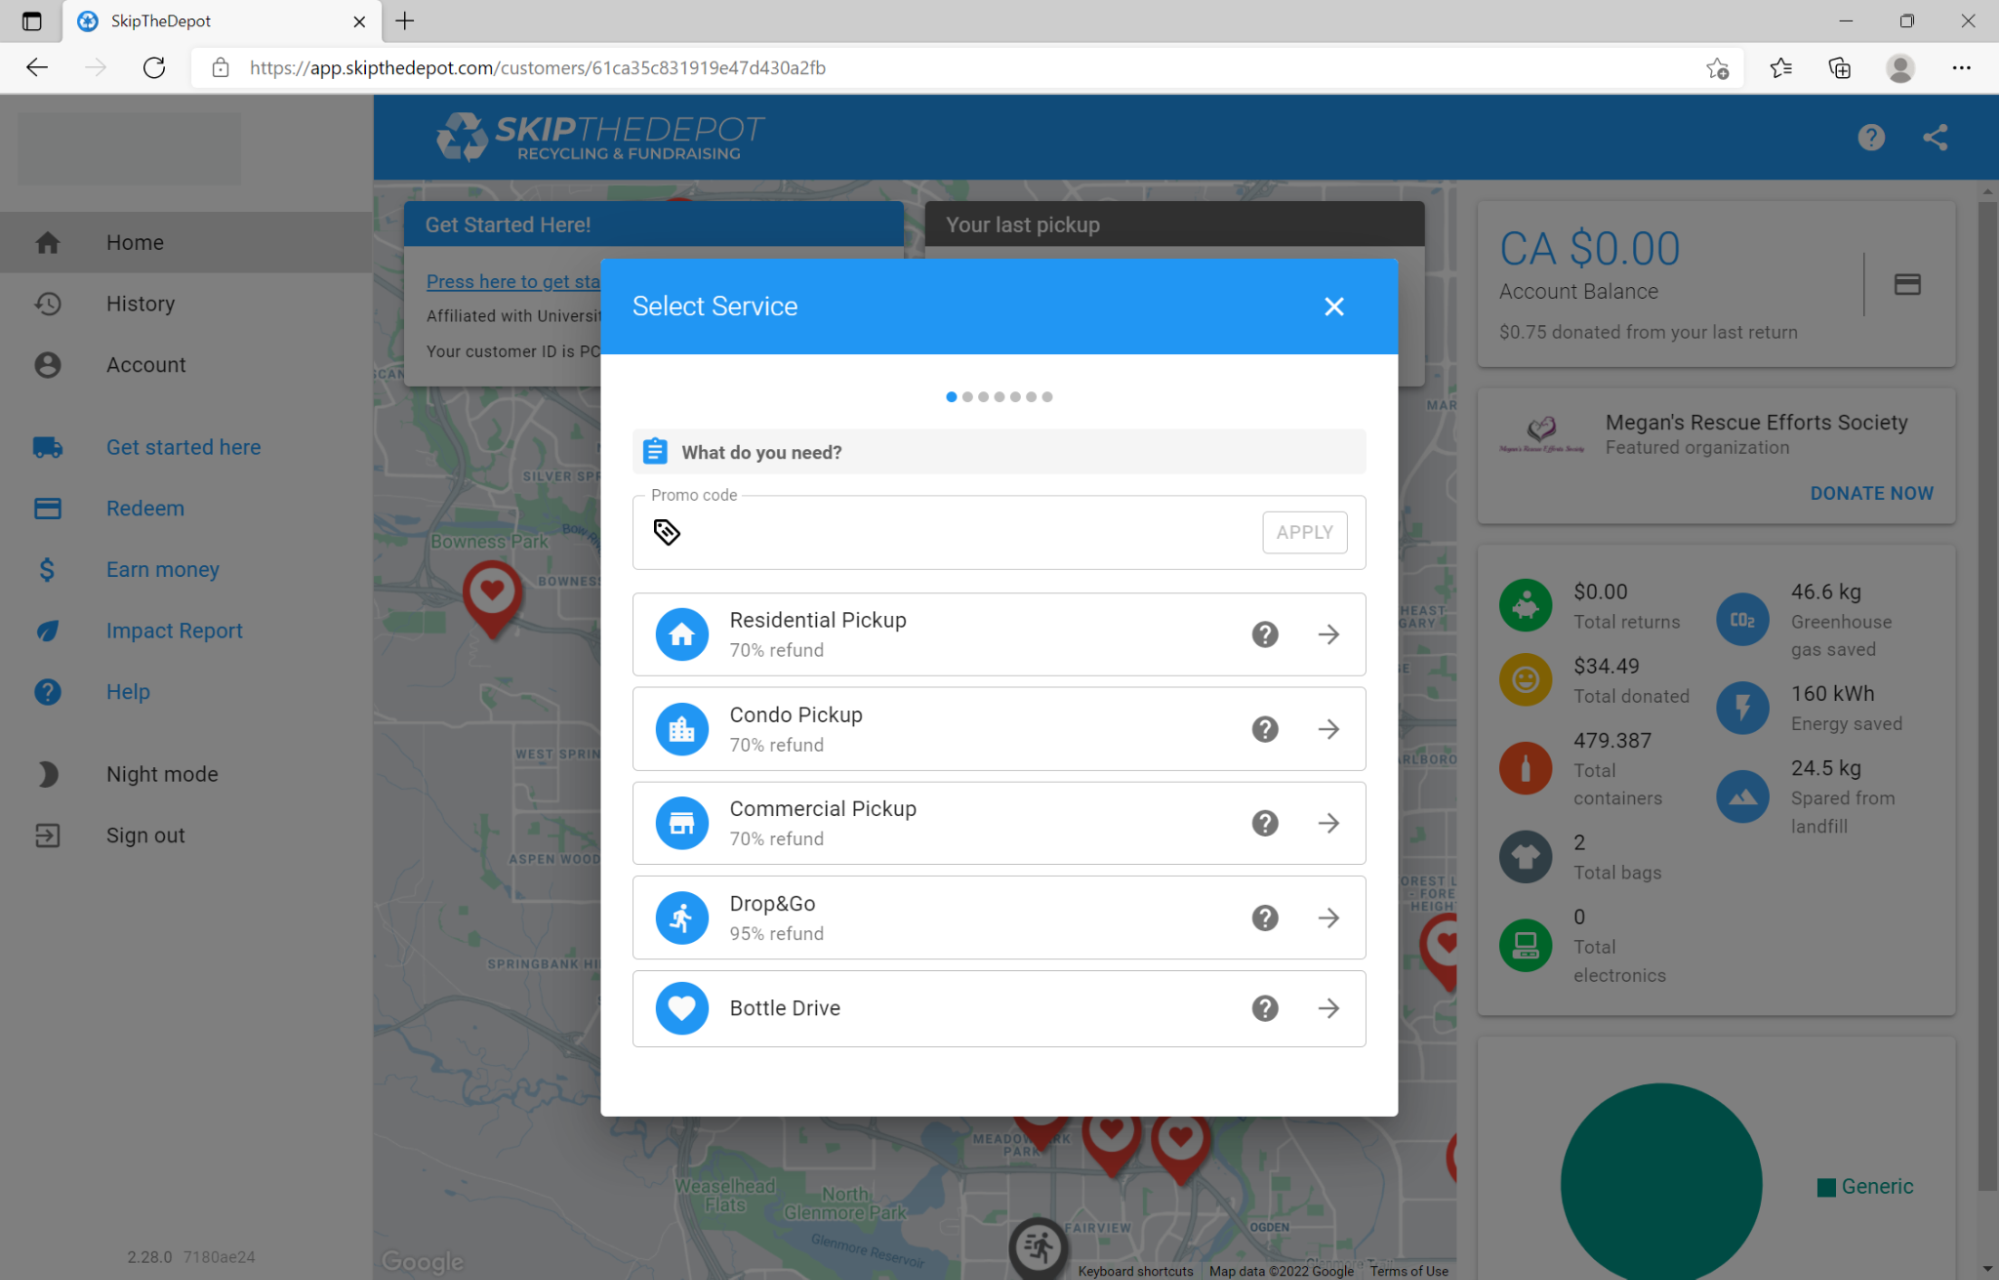
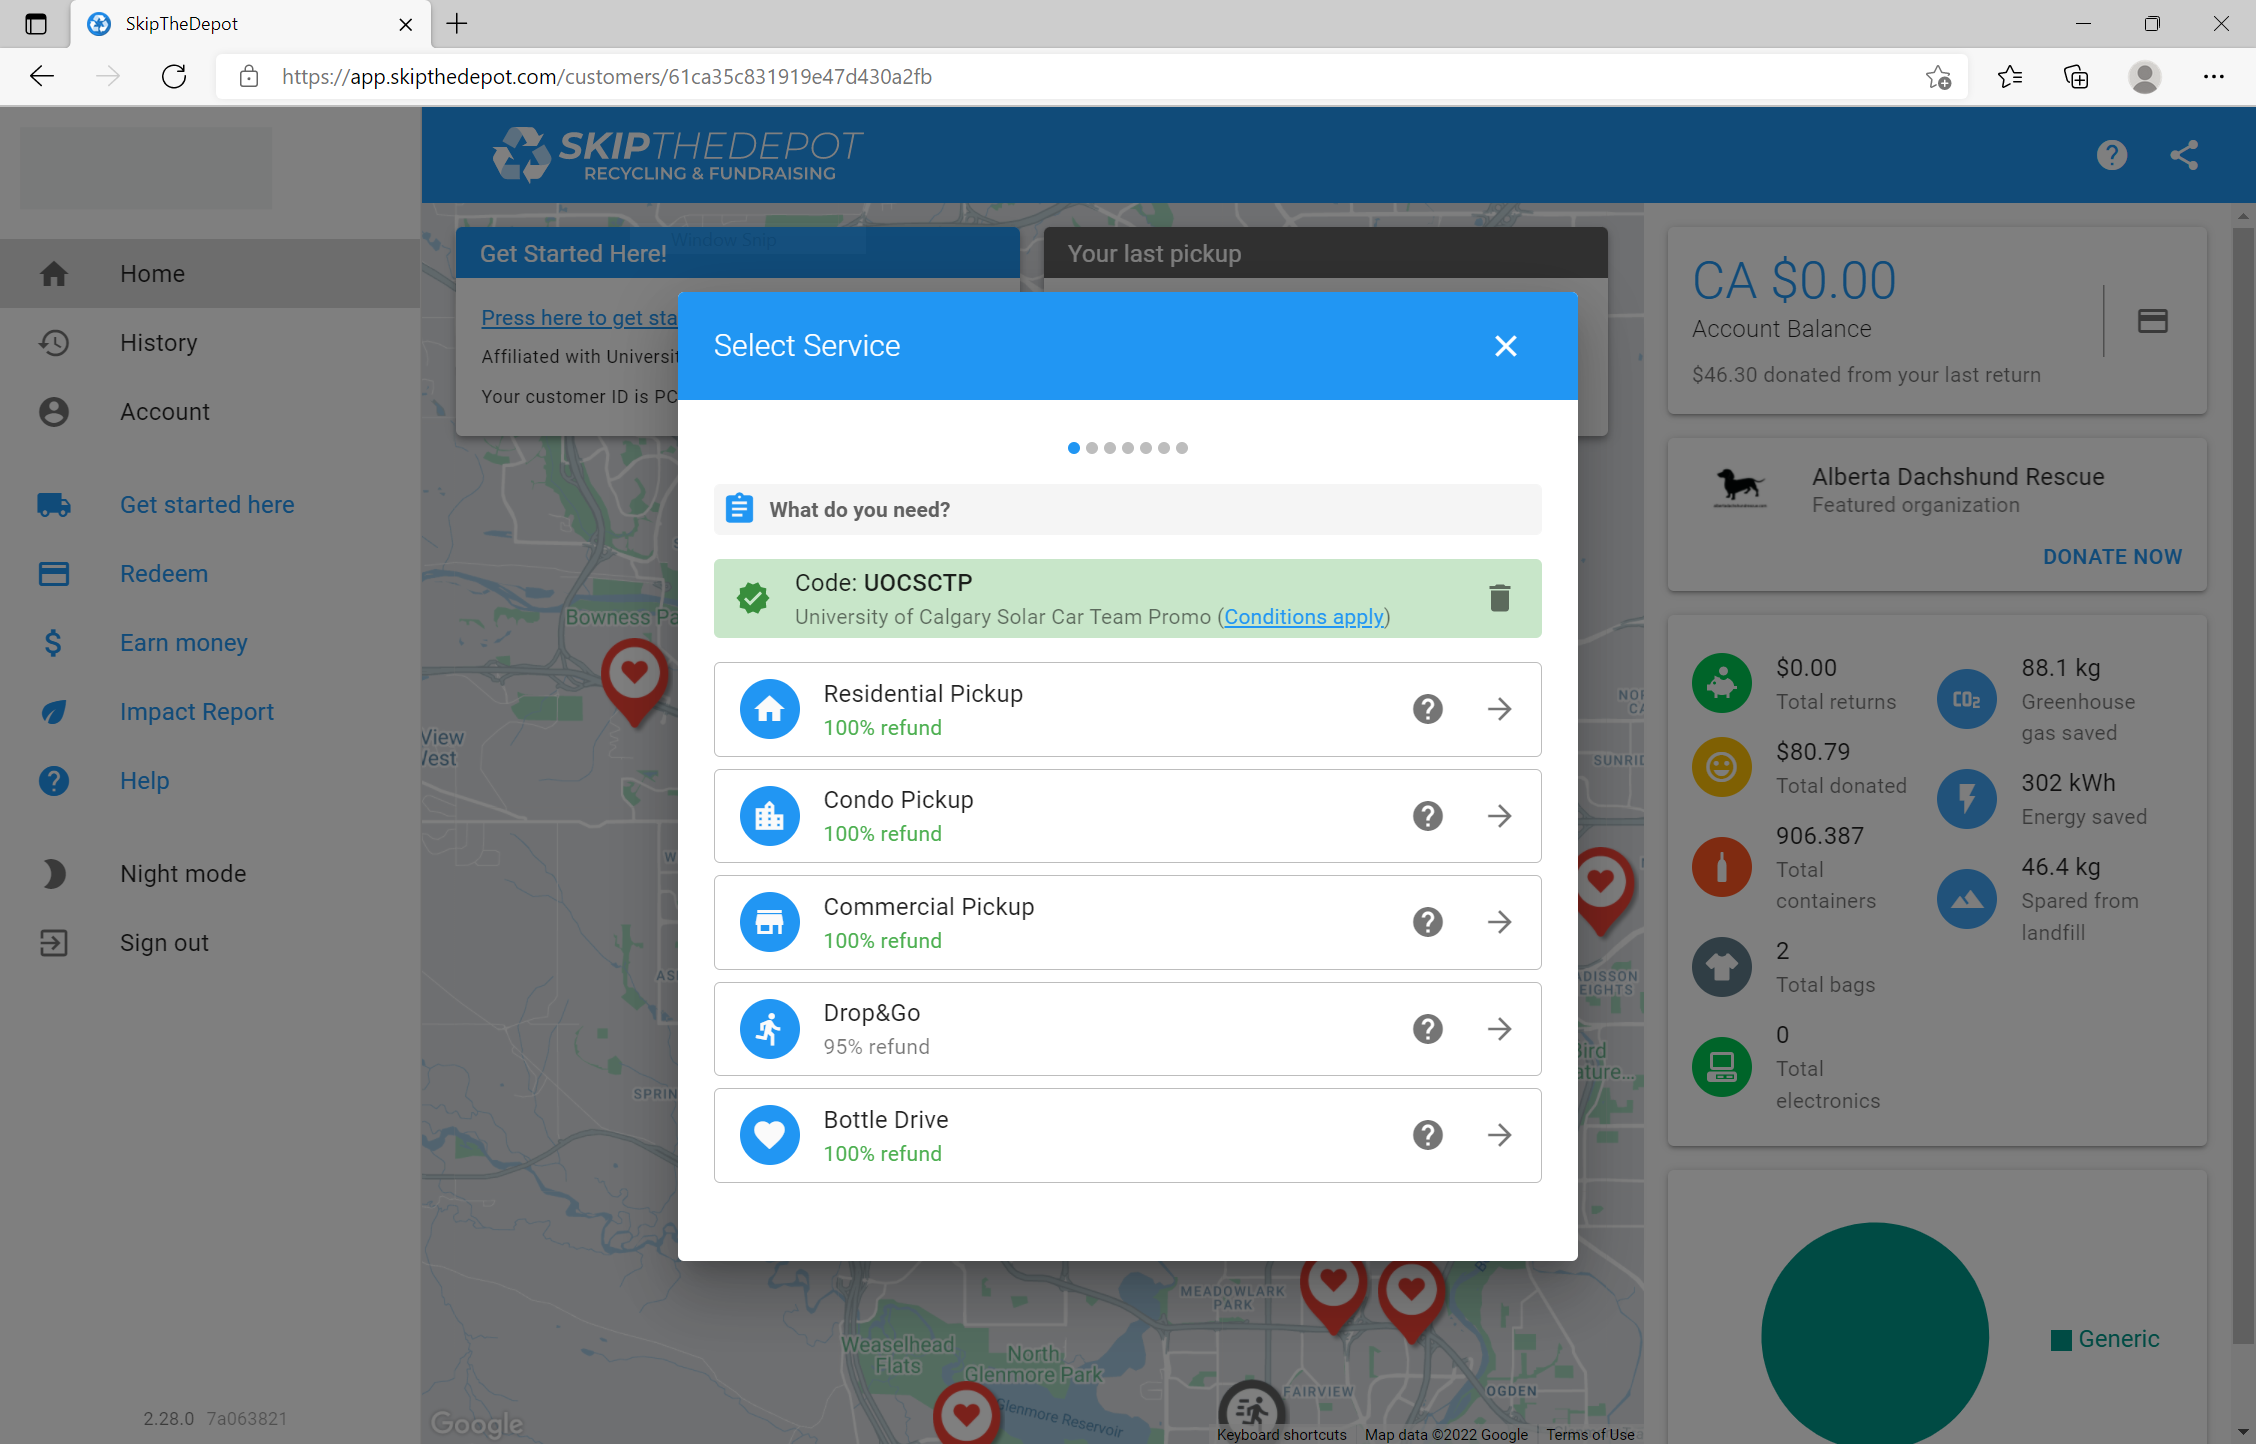
Modified skip the depot instructions and image.

diff --git a/src/assets/articleFiles/SkipTheDepot-Fundraiser/SkipTheDepot-Fundraiser.md b/src/assets/articleFiles/SkipTheDepot-Fundraiser/SkipTheDepot-Fundraiser.md
@@ -35,7 +35,7 @@ If you are using a phone you can also download SkipTheDepot from the app store (
 <br><br>
 
 
-Once you’ve created your account select the “Bottle Drive” option to donate your bottles to our team and schedule a pickup time that best suits your activities!
+Once you’ve created your account enter our promo code “UOCSCTP” in order to donate 100% of the proceeds to our team. Next, select the “Bottle Drive” option to donate your bottles to our team and schedule a pickup time that best suits your activities!
 
 
 
